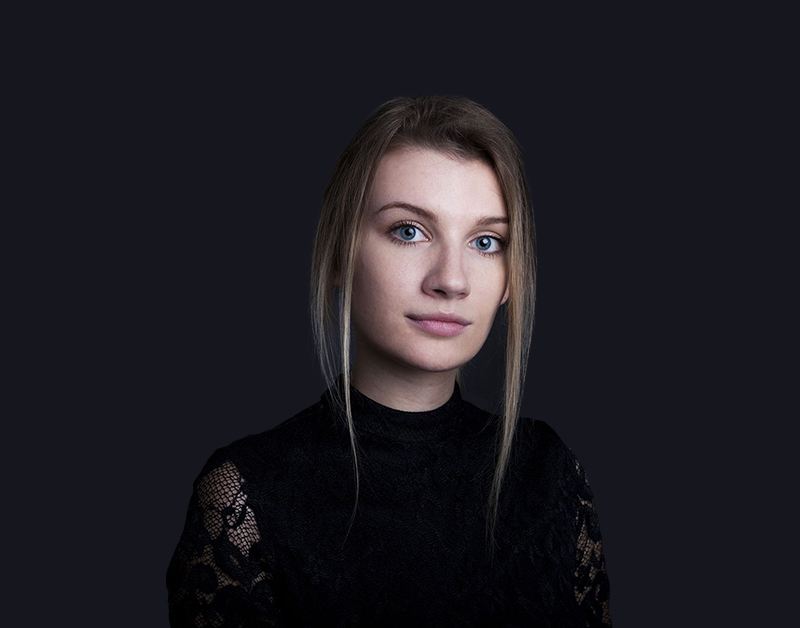
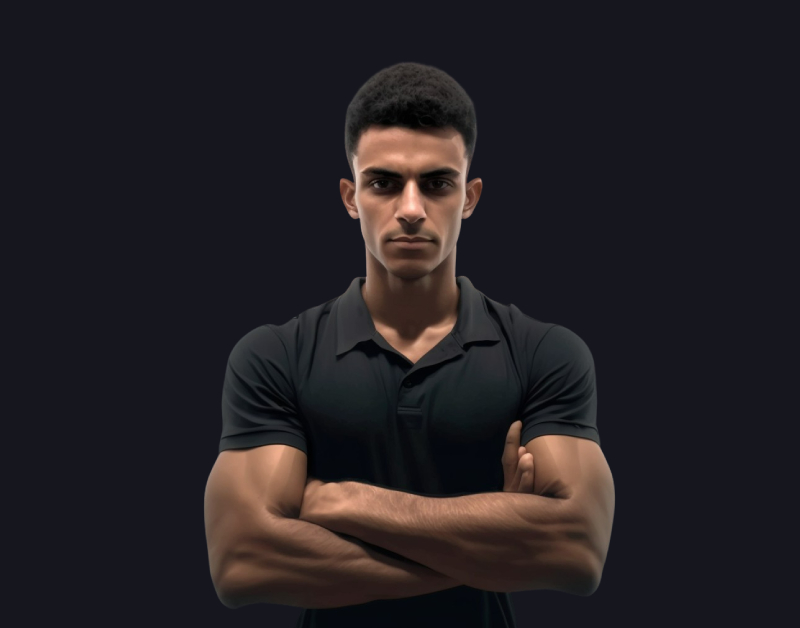
feat: Adicionar portfólio no repositório
Este commit adiciona meu portfólio ao repositório do Git. O portfólio inclui exemplos de trabalhos realizados e informações sobre minhas habilidades e experiência.

Foram adicionados os seguintes arquivos:
- index.html
- assets/css
- assets/img
- assets/js
- README.md

Também foi atualizado o README.md com informações sobre o portfólio e instruções sobre como executar o site localmente.

#ISSUE-1

Changed region(s): [[0.1875, 0.0908, 0.7812, 1.0]]

diff --git a/index.html b/index.html
@@ -61,23 +61,22 @@
             <div class="home__social">
                 <span class="home__social-follow">Siga-me</span>
                 <div class="home__social-links">
-                    <a href="#" class="home__social-link">
+                    <a href="https://github.com/emersonSantos98" class="home__social-link">
                         <i class="uil uil-github-alt"></i>
                     </a>
                     <a href="#" class="home__social-link">
                         <i class="uil uil-instagram"></i>
                     </a>
-                    <a href="#" class="home__social-link">
+                    <a href="https://www.linkedin.com/in/emerson-santos-3857ba221/" class="home__social-link">
                         <i class="uil uil-linkedin-alt"></i>
                     </a>
                 </div>
             </div>
             <img src="assets/img/home-img.png" alt="" class="home__img">
             <div class="home__data">
-                <h1 class="home__title">Olá, eu sou a Mariam.</h1>
-                <h3 class="home__subtitle">Desenvolvedora Frontend.</h3>
-                <p class="home__description">Tenho ampla experiência em design web e conhecimento em desenvolvimento,
-                    produzindo trabalhos de qualidade.</p>
+                <h1 class="home__title">Olá, eu sou o Emerson.</h1>
+                <h3 class="home__subtitle"> Desenvolvedor Full Stack.</h3>
+                <p class="home__description">Tenho experiência em de desenvolvimento web, produzindo trabalhos de qualidade.</p>
                 <a href="#about" class="button"><i class="uil uil-user button__icon"></i>
                     Mais Sobre Mim
                 </a>
@@ -98,7 +97,7 @@
 
                     <div>
                         <h3 class="info__title">Whatsapp</h3>
-                        <span class="info__subtitle">(11) 99999-5555</span>
+                        <span class="info__subtitle">(11) 93750-7856</span>
                     </div>
                 </div>
 
@@ -107,7 +106,7 @@
 
                     <div>
                         <h3 class="info__title">Email</h3>
-                        <span class="info__subtitle">emerson@gmail.com</span>
+                        <span class="info__subtitle">emerson.matosokl10@gmail.com</span>
                     </div>
                 </div>
             </div>
@@ -116,36 +115,35 @@
 
     <!--==================== ABOUT ====================-->
     <section class="about section" id="about">
-        <h2 data-heading="My Intro" class="section__title">About Me</h2>
+        <h2 data-heading="My Intro" class="section__title">Sobre mim</h2>
 
         <div class="about__container container grid">
             <img src="assets/img/about-img.jpg" alt="" class="about__img">
 
             <div class="about__data">
-                <h3 class="about__heading">Hi, I'm Mariam Wallas, Based in Canada</h3>
-                <p class="about__description"> Web developer, with extensive knowledge and years of experience,
-                    working in web technologies and Ui / Ux design, delivering quality work.</p>
+                <h3 class="about__heading">Oi, eu sou Emerson Santos e moro no Brasil.</h3>
+                <p class="about__description"> Sou desenvolvedor web com quase um ano de experiência em tecnologias web e cloud AWS. Entrego trabalhos de qualidade.</p>
                 <div class="about__info grid">
                     <div class="about__box">
                         <i class="uil uil-award about__icon"></i>
                         <h3 class="about__title">Experience</h3>
-                        <span class="about__subtitle">8 + Years</span>
+                        <span class="about__subtitle">1 + Ano</span>
                     </div>
 
                     <div class="about__box">
                         <i class="uil uil-suitcase-alt about__icon"></i>
                         <h3 class="about__title">Completed</h3>
-                        <span class="about__subtitle">48 + Projects</span>
+                        <span class="about__subtitle">1 + Projects</span>
                     </div>
 
                     <div class="about__box">
                         <i class="uil uil-headphones-alt about__icon"></i>
                         <h3 class="about__title">Support</h3>
-                        <span class="about__subtitle">Online 24</span>
+                        <span class="about__subtitle">Online 2</span>
                     </div>
                 </div>
                 <a href="#contact" class="button"><i class="uil uil-navigator button__icon"></i>
-                    Contact Me
+                    Fale Comigo
                 </a>
             </div>
         </div>
@@ -153,7 +151,7 @@
 
     <!--==================== QUALIFICATION ====================-->
     <section class="qualification section">
-        <h2 data-heading="My Journey" class="section__title">Qualification</h2>
+        <h2 data-heading="My Journey" class="section__title">Qualificação</h2>
 
         <div class="qualification__container container grid">
             <div class="education">
@@ -164,63 +162,63 @@
                 <div class="timeLine">
                     <div class="timeLine__item">
                         <div class="circle__dot"></div>
-                        <h3 class="timeLine__title">XYZ University (Sometown, NJ)</h3>
-                        <p class="timeLine__text">BFA in Graphic Deaign</p>
+                        <h3 class="timeLine__title">Faculdade das Américas (FAM)</h3>
+                        <p class="timeLine__text">ADS Análise e Desenvolvimento de Sistemas</p>
                         <span class="timeLine__date"><i class="uil uil-calendar-alt"></i>
-                                2011 - 2013
+                                2021 - 2023
                                 </span>
                     </div>
-                    <div class="timeLine__item">
-                        <div class="circle__dot"></div>
-                        <h3 class="timeLine__title">ABC University (Sometown, NJ)</h3>
-                        <p class="timeLine__text">Diploma in Web Design</p>
-                        <span class="timeLine__date"><i class="uil uil-calendar-alt"></i>
-                                2013 - 2015
-                                </span>
-                    </div>
-                    <div class="timeLine__item">
-                        <div class="circle__dot"></div>
-                        <h3 class="timeLine__title">KLM University (Sometown, MJ)</h3>
-                        <p class="timeLine__text">BS in Web Development.</p>
-                        <span class="timeLine__date"><i class="uil uil-calendar-alt"></i>
-                                2013 - 2017
-                        </span>
-                    </div>
+<!--                    <div class="timeLine__item">-->
+<!--                        <div class="circle__dot"></div>-->
+<!--                        <h3 class="timeLine__title">ABC University (Sometown, NJ)</h3>-->
+<!--                        <p class="timeLine__text">Diploma in Web Design</p>-->
+<!--                        <span class="timeLine__date"><i class="uil uil-calendar-alt"></i>-->
+<!--                                2013 - 2015-->
+<!--                                </span>-->
+<!--                    </div>-->
+<!--                    <div class="timeLine__item">-->
+<!--                        <div class="circle__dot"></div>-->
+<!--                        <h3 class="timeLine__title">KLM University (Sometown, MJ)</h3>-->
+<!--                        <p class="timeLine__text">BS in Web Development.</p>-->
+<!--                        <span class="timeLine__date"><i class="uil uil-calendar-alt"></i>-->
+<!--                                2013 - 2017-->
+<!--                        </span>-->
+<!--                    </div>-->
                 </div>
             </div>
 
             <div class="experience">
                 <h3 class="qualification__title">
-                    <i class="uil uil-suitcase"></i> Experience
+                    <i class="uil uil-suitcase"></i> Experiência
                 </h3>
 
                 <div class="timeLine">
                     <div class="timeLine__item">
                         <div class="circle__dot"></div>
-                        <h3 class="timeLine__title">Copalopa Inc. (Sometown, nj)</h3>
-                        <p class="timeLine__text">Lead / Senior UX Desingner</p>
+                        <h3 class="timeLine__title">Dkp (Brasil, SP)</h3>
+                        <p class="timeLine__text">Desenvolvedor Web / Junior </p>
                         <span class="timeLine__date"><i class="uil uil-calendar-alt"></i>
-                                2018 - present
+                               2022 - presente
                         </span>
                     </div>
 
-                    <div class="timeLine__item">
-                        <div class="circle__dot"></div>
-                        <h3 class="timeLine__title">Gagoble Inc. (Sometown, NJ)</h3>
-                        <p class="timeLine__text">Web Site / UX Desingner</p>
-                        <span class="timeLine__date"><i class="uil uil-calendar-alt"></i>
-                                2015 - 2018
-                            </span>
-                    </div>
+<!--                    <div class="timeLine__item">-->
+<!--                        <div class="circle__dot"></div>-->
+<!--                        <h3 class="timeLine__title">Gagoble Inc. (Sometown, NJ)</h3>-->
+<!--                        <p class="timeLine__text">Web Site / UX Desingner</p>-->
+<!--                        <span class="timeLine__date"><i class="uil uil-calendar-alt"></i>-->
+<!--                                2015 - 2018-->
+<!--                            </span>-->
+<!--                    </div>-->
 
-                    <div class="timeLine__item">
-                        <div class="circle__dot"></div>
-                        <h3 class="timeLine__title">Copalopa Inc. (Sometown, NJ)</h3>
-                        <p class="timeLine__text">Junior UX Designer</p>
-                        <span class="timeLine__date"><i class="uil uil-calendar-alt"></i>
-                            2013 - 2015
-                        </span>
-                    </div>
+<!--                    <div class="timeLine__item">-->
+<!--                        <div class="circle__dot"></div>-->
+<!--                        <h3 class="timeLine__title">Copalopa Inc. (Sometown, NJ)</h3>-->
+<!--                        <p class="timeLine__text">Junior UX Designer</p>-->
+<!--                        <span class="timeLine__date"><i class="uil uil-calendar-alt"></i>-->
+<!--                            2013 - 2015-->
+<!--                        </span>-->
+<!--                    </div>-->
                 </div>
             </div>
         </div>
@@ -228,7 +226,7 @@
 
     <!--==================== SKILLS ====================-->
     <section class="skills section" id="skills">
-        <h2 data-heading="My Abilities" class="section__title">My Experience</h2>
+        <h2 data-heading="My Abilities" class="section__title">Minha Experiência</h2>
 
         <div class="skills__container container grid">
             <div class="skills__tabs">
@@ -237,7 +235,7 @@
 
                     <div>
                         <h1 class="skills__title">Frontend developer</h1>
-                        <span class="skills__subtitle">More than 5 years</span>
+                        <span class="skills__subtitle">Mais de 9 meses</span>
                     </div>
 
                     <i class="uil uil-angle-down skills__arrow"></i>
@@ -246,8 +244,8 @@
                 <div class="skills__header" data-target="#design">
                     <i class="uil uil-swatchbook skills__icon"></i>
                     <div>
-                        <h1 class="skills__title">Ui / UX design</h1>
-                        <span class="skills__subtitle">More than 5 years</span>
+                        <h1 class="skills__title">Cloud</h1>
+                        <span class="skills__subtitle">Mais de 9 meses</span>
                     </div>
                     <i class="uil uil-angle-down skills__arrow"></i>
                 </div>
@@ -256,7 +254,7 @@
                     <i class="uil uil-server-network skills__icon"></i>
                     <div>
                         <h1 class="skills__title">Backend developer</h1>
-                        <span class="skills__subtitle">More than 2 years</span>
+                        <span class="skills__subtitle">Mais de 9 meses</span>
                     </div>
                     <i class="uil uil-angle-down skills__arrow"></i>
                 </div>
@@ -268,40 +266,40 @@
                         <div class="skills__data">
                             <div class="skills__titles">
                                 <h3 class="skills__name">HTML</h3>
-                                <span class="skills__number">90%</span>
+                                <span class="skills__number">64%</span>
                             </div>
                             <div class="skills__bar">
-                                <span class="skills__percentage" style="width: 90%"></span>
+                                <span class="skills__percentage" style="width: 64%"></span>
                             </div>
                         </div>
 
                         <div class="skills__data">
                             <div class="skills__titles">
                                 <h3 class="skills__name">CSS</h3>
-                                <span class="skills__number">80%</span>
+                                <span class="skills__number">45%</span>
                             </div>
                             <div class="skills__bar">
-                                <span class="skills__percentage" style="width: 80%"></span>
+                                <span class="skills__percentage" style="width: 45%"></span>
                             </div>
                         </div>
 
                         <div class="skills__data">
                             <div class="skills__titles">
                                 <h3 class="skills__name">JavaScript</h3>
-                                <span class="skills__number">60%</span>
+                                <span class="skills__number">50%</span>
                             </div>
                             <div class="skills__bar">
-                                <span class="skills__percentage" style="width: 60%"></span>
+                                <span class="skills__percentage" style="width: 50%"></span>
                             </div>
                         </div>
 
                         <div class="skills__data">
                             <div class="skills__titles">
-                                <h3 class="skills__name">React</h3>
-                                <span class="skills__number">85%</span>
+                                <h3 class="skills__name">VueJs</h3>
+                                <span class="skills__number">60%</span>
                             </div>
                             <div class="skills__bar">
-                                <span class="skills__percentage" style="width: 85%"></span>
+                                <span class="skills__percentage" style="width: 60%"></span>
                             </div>
                         </div>
                     </div>
@@ -311,31 +309,31 @@
                     <div class="skills__List grid">
                         <div class="skills__data">
                             <div class="skills__titles">
-                                <h3 class="skills__name">FigmaL</h3>
-                                <span class="skills__number">90%</span>
+                                <h3 class="skills__name">AWS-S3</h3>
+                                <span class="skills__number">35%</span>
                             </div>
                             <div class="skills__bar">
-                                <span class="skills__percentage" style="width: 90%"></span>
+                                <span class="skills__percentage" style="width: 35%"></span>
                             </div>
                         </div>
 
                         <div class="skills__data">
                             <div class="skills__titles">
-                                <h3 class="skills__name">Sketch</h3>
-                                <span class="skills__number">80%</span>
+                                <h3 class="skills__name">AWS-EC2</h3>
+                                <span class="skills__number">25%</span>
                             </div>
                             <div class="skills__bar">
-                                <span class="skills__percentage" style="width: 80%"></span>
+                                <span class="skills__percentage" style="width: 25%"></span>
                             </div>
                         </div>
 
                         <div class="skills__data">
                             <div class="skills__titles">
-                                <h3 class="skills__name">Photoshops</h3>
-                                <span class="skills__number">70%</span>
+                                <h3 class="skills__name">AWS-MediaConvert</h3>
+                                <span class="skills__number">15%</span>
                             </div>
                             <div class="skills__bar">
-                                <span class="skills__percentage" style="width: 70%"></span>
+                                <span class="skills__percentage" style="width: 15%"></span>
                             </div>
                         </div>
                     </div>
@@ -345,11 +343,11 @@
                     <div class="skills__List grid">
                         <div class="skills__data">
                             <div class="skills__titles">
-                                <h3 class="skills__name">Python</h3>
-                                <span class="skills__number">80%</span>
+                                <h3 class="skills__name">NodeJs</h3>
+                                <span class="skills__number">60%</span>
                             </div>
                             <div class="skills__bar">
-                                <span class="skills__percentage" style="width: 80%"></span>
+                                <span class="skills__percentage" style="width: 60%"></span>
                             </div>
                         </div>
 
@@ -365,11 +363,11 @@
 
                         <div class="skills__data">
                             <div class="skills__titles">
-                                <h3 class="skills__name">Firebase</h3>
-                                <span class="skills__number">85%</span>
+                                <h3 class="skills__name">PostgreSQL</h3>
+                                <span class="skills__number">35%</span>
                             </div>
                             <div class="skills__bar">
-                                <span class="skills__percentage" style="width: 85%"></span>
+                                <span class="skills__percentage" style="width: 35%"></span>
                             </div>
                         </div>
                     </div>
